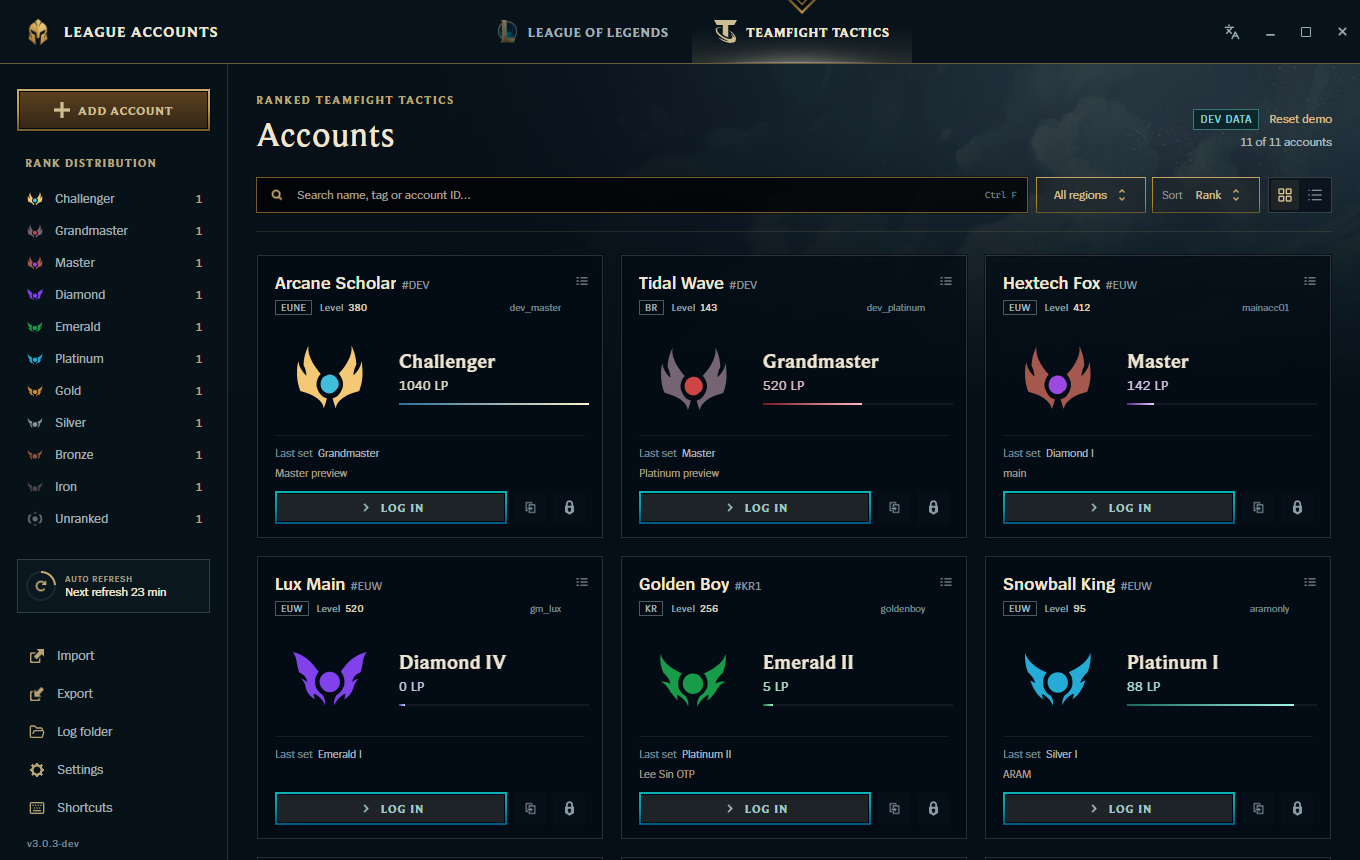
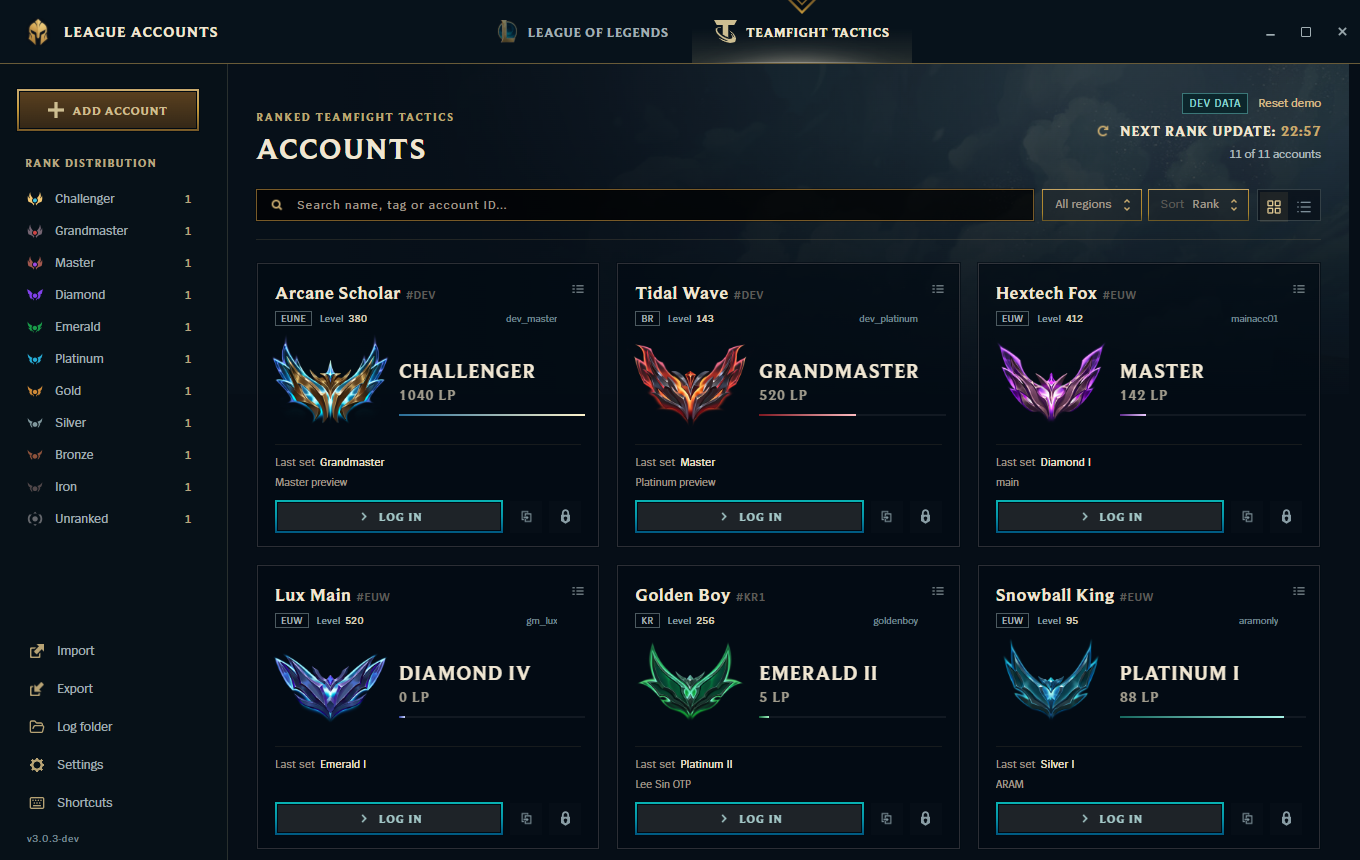
docs: refresh screenshots and describe the header countdown

diff --git a/README.md b/README.md
@@ -106,7 +106,7 @@ The switch at the top changes every rank, sort order and filter between **League
 ### Rank updates
 
 - Cards show the latest rank and LP to help you choose an account. Refreshing replaces that rank data; the app does not collect LP progression.
-- The **Auto refresh** button in the sidebar shows when the next refresh happens. Click it to refresh immediately. Change the interval (5 minutes to 24 hours) in **Settings → Rank updates**.
+- The **Next rank update** countdown at the top right shows when the next refresh happens. Click it to refresh immediately. Change the interval (5 minutes to 24 hours) in **Settings → Rank updates**.
 - Rank data comes from public OP.GG profile pages, two requests per account (LoL and TFT). Very short intervals with many accounts may get rate-limited.
 
 ## Settings
@@ -173,9 +173,9 @@ npx tauri build --no-bundle  # build target/release/LeagueAccounts.exe
 
 `npm run screenshots` starts an isolated demo server and regenerates the README's PNGs and GIFs from the current interface and scripted interactions. These are real captures with synthetic accounts, not separately designed mockups. Run it after UI changes; it does not regenerate on every launch. Requires Chrome and ffmpeg; set `CHROME_PATH` for another Chromium installation or `BASE_URL` to use an existing demo server.
 
-Startup shows a dark screen with the client's small, silent loading spinner until the interface, fonts, crests and background art are ready. It respects reduced motion and offers a retry action if the app fails to load.
+Startup shows a dark screen with the client's own hextech loading animation (silent) until the interface, fonts, crests and background art are ready. It respects reduced motion and offers a retry action if the app fails to load.
 
-`npm run test:ui` checks cold startup with delayed scripts, fonts and images, startup failure/retry, the development rank set and reset, filters, LoL/TFT crests, keyboard navigation, Settings controls and scrolling, accessible tooltips, adding accounts, login progress and silent/reduced motion in Chrome. `npm test` runs the renderer authentication regressions.
+`npm run test:ui` checks cold startup with delayed scripts, fonts and images, startup failure/retry, the development rank set and reset, filters, LoL/TFT crests, keyboard navigation, framed dropdowns, Settings controls and scrolling, accessible tooltips, adding accounts, login progress, long tier names on the narrowest cards, a still layout while filtering, silent refreshes and silent/reduced motion in Chrome. `npm test` runs the renderer authentication regressions.
 
 Client assets are bundled locally and pinned to patch 16.20. Builds verify their hashes with `npm run assets:verify`; `node scripts/league-assets.mjs --fetch` restores missing assets. See [asset provenance and rights](THIRD_PARTY_ASSETS.md). No client modification or Pengu installation is required to run League Accounts.
 
